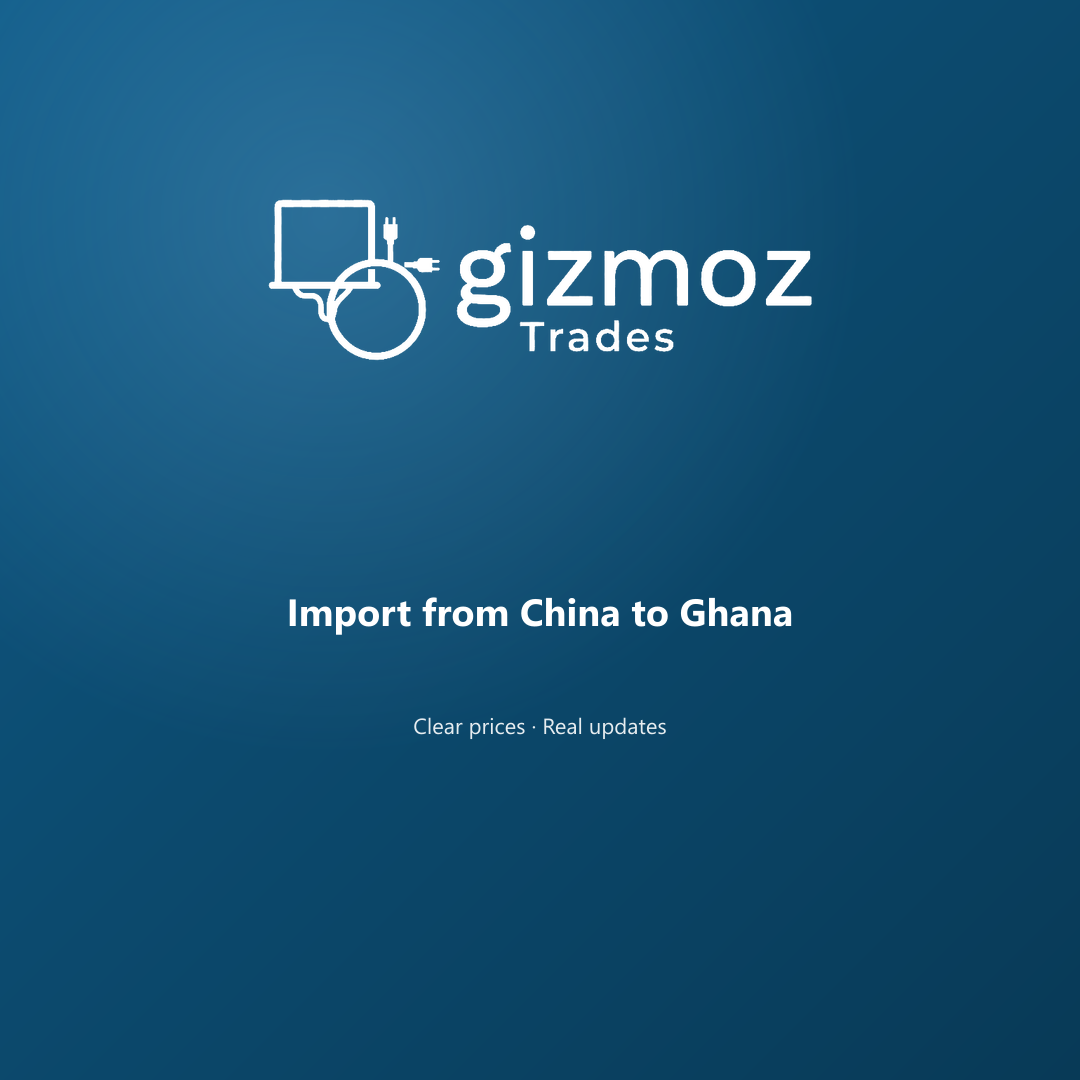
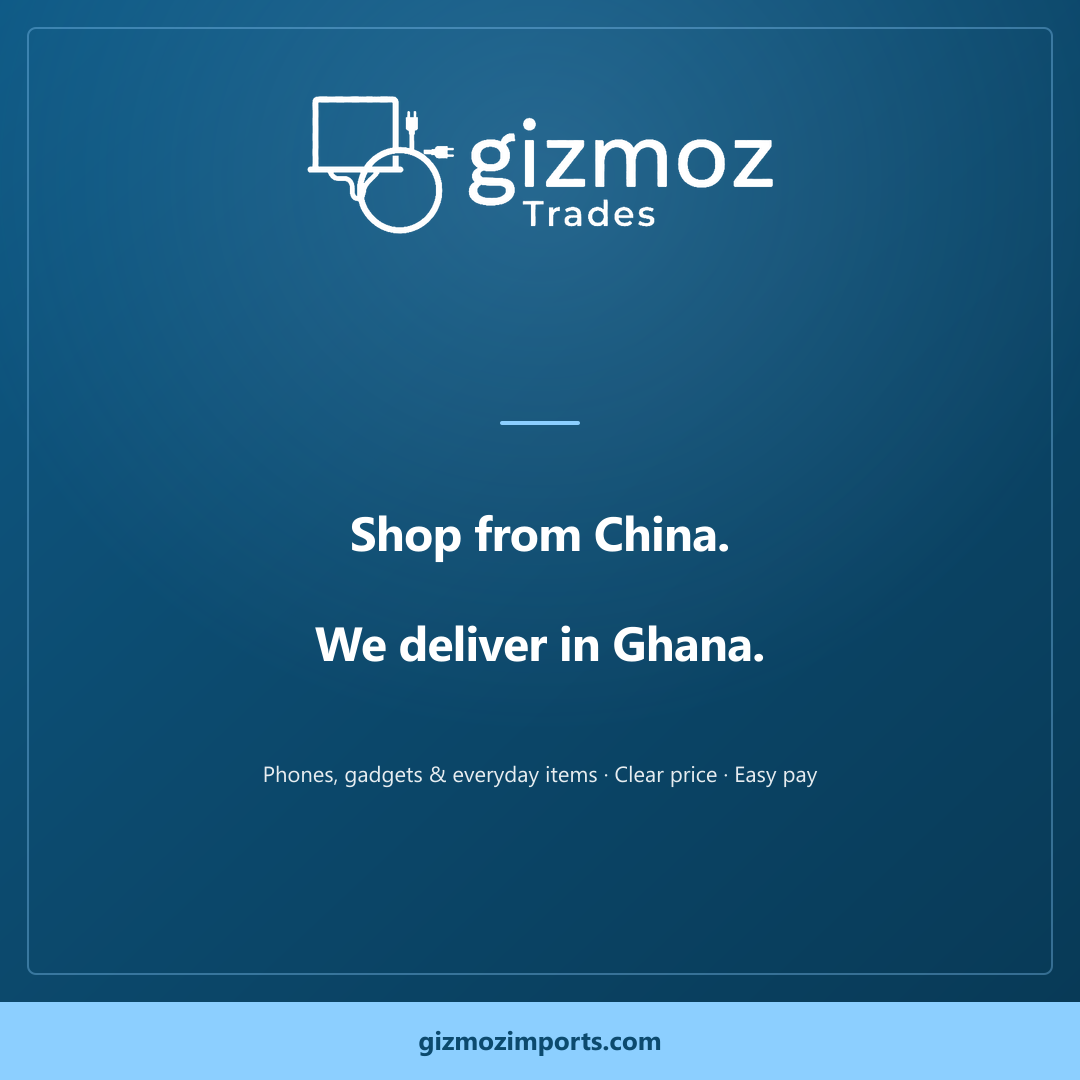
Redesign share flyer with plain-language brand copy

diff --git a/app/opengraph-image.tsx b/app/opengraph-image.tsx
@@ -9,6 +9,7 @@ export const alt = `${SEO.brandName}. ${SEO.tagline}`;
 export const size = { width: 1200, height: 630 };
 export const contentType = 'image/png';
 
+/** Flyer-style share card — logo on top, brand copy below. Not the site hero. */
 export default async function Image() {
   const logoSrc = `${SEO.siteUrl}${SITE_LOGO_DARK_BG_PATH}`;
 
@@ -20,44 +21,53 @@ export default async function Image() {
           height: '100%',
           display: 'flex',
           flexDirection: 'column',
-          alignItems: 'center',
-          justifyContent: 'center',
-          background: 'linear-gradient(135deg, #0E5A86 0%, #0C4A6E 42%, #083A57 100%)',
-          color: '#fff',
+          background: 'linear-gradient(135deg, #0E5A86 0%, #0C4A6E 45%, #083A57 100%)',
           fontFamily: 'system-ui, sans-serif',
-          position: 'relative',
-          padding: '48px 64px',
         }}
       >
         <div
           style={{
-            position: 'absolute',
-            top: -100,
-            left: -40,
-            width: 460,
-            height: 460,
-            borderRadius: 999,
-            background: 'rgba(140, 207, 255, 0.18)',
-          }}
-        />
-
-        <div
-          style={{
+            flex: 1,
             display: 'flex',
             flexDirection: 'column',
             alignItems: 'center',
-            justifyContent: 'center',
-            gap: 36,
+            justifyContent: 'flex-start',
+            padding: '48px 56px 32px',
             position: 'relative',
           }}
         >
+          {/* Inset frame */}
+          <div
+            style={{
+              position: 'absolute',
+              top: 28,
+              left: 28,
+              right: 28,
+              bottom: 28,
+              border: '2px solid rgba(140, 207, 255, 0.35)',
+              borderRadius: 8,
+            }}
+          />
+
           {/* eslint-disable-next-line @next/next/no-img-element */}
           <img
             src={logoSrc}
-            width={420}
-            height={151}
-            style={{ objectFit: 'contain' }}
+            width={400}
+            height={144}
+            style={{ objectFit: 'contain', marginTop: 12 }}
             alt=""
+          />
+
+          <div
+            style={{
+              display: 'flex',
+              width: 80,
+              height: 4,
+              background: '#8CCFFF',
+              borderRadius: 2,
+              marginTop: 28,
+              marginBottom: 28,
+            }}
           />
 
           <div
@@ -65,36 +75,63 @@ export default async function Image() {
               display: 'flex',
               flexDirection: 'column',
               alignItems: 'center',
-              gap: 18,
+              gap: 6,
               textAlign: 'center',
             }}
           >
             <div
               style={{
                 display: 'flex',
-                fontSize: 42,
+                fontSize: 48,
                 fontWeight: 700,
+                color: '#FFFFFF',
                 letterSpacing: '-0.02em',
-                lineHeight: 1.2,
-                textAlign: 'center',
-                maxWidth: 980,
+                lineHeight: 1.15,
               }}
             >
-              Import from China to Ghana without the stress
+              Shop from China.
             </div>
             <div
               style={{
                 display: 'flex',
-                fontSize: 24,
-                color: 'rgba(255,255,255,0.9)',
-                textAlign: 'center',
-                maxWidth: 920,
-                lineHeight: 1.35,
+                fontSize: 48,
+                fontWeight: 700,
+                color: '#FFFFFF',
+                letterSpacing: '-0.02em',
+                lineHeight: 1.15,
               }}
             >
-              Gadgets, electronics &amp; everyday goods · Clear prices · Real updates
+              We deliver in Ghana.
             </div>
           </div>
+
+          <div
+            style={{
+              display: 'flex',
+              marginTop: 22,
+              fontSize: 22,
+              color: 'rgba(255,255,255,0.9)',
+              textAlign: 'center',
+            }}
+          >
+            Phones, gadgets &amp; everyday items · Clear price · Easy pay
+          </div>
+        </div>
+
+        {/* Light Blue footer band */}
+        <div
+          style={{
+            display: 'flex',
+            alignItems: 'center',
+            justifyContent: 'center',
+            height: 78,
+            background: '#8CCFFF',
+            color: '#0C4A6E',
+            fontSize: 26,
+            fontWeight: 700,
+          }}
+        >
+          gizmozimports.com
         </div>
       </div>
     ),

diff --git a/lib/seo.ts b/lib/seo.ts
@@ -25,12 +25,12 @@ function resolveSiteUrl(raw: string | undefined): string {
 const SITE_URL = resolveSiteUrl(process.env.NEXT_PUBLIC_APP_URL);
 const SITE_NAME = (process.env.NEXT_PUBLIC_SITE_NAME || 'Gizmoz Trades').trim() || 'Gizmoz Trades';
 
-const TAGLINE = 'China goods for Ghana — clear price, real tracking';
+const TAGLINE = 'Shop from China. We deliver in Ghana.';
 const TAGLINE_LONG =
-  'Gizmoz Trades is the simple way to buy goods from China for Ghana. See the price, get a clear bill, pay by MoMo or bank, and track your order to Ghana. WhatsApp help when you need it, plus Buy RMB for China payments.';
+  'Gizmoz Trades helps you buy phones, gadgets, and everyday items from China and get them in Ghana. See the price first, pay by MoMo or bank, track your order, and chat on WhatsApp when you need help. You can also Buy RMB for China payments.';
 
 const DEFAULT_DESCRIPTION =
-  'Buy gadgets, phones, home items, and more from China for Ghana with Gizmoz Trades. Clear prices, easy pay, order tracking, and Buy RMB with Ghana Cedis.';
+  'Order phones, gadgets, and everyday items from China with Gizmoz Trades. See the price first, pay by MoMo or bank, and track your order until it arrives in Ghana.';
 
 export const SEO = {
   siteUrl: SITE_URL,
@@ -41,7 +41,7 @@ export const SEO = {
   tagline: TAGLINE,
   taglineLong: TAGLINE_LONG,
 
-  defaultTitle: `${SITE_NAME} | China to Ghana Imports`,
+  defaultTitle: `${SITE_NAME} | Shop from China, delivered in Ghana`,
   defaultDescription: DEFAULT_DESCRIPTION,
 
   keywords: [
@@ -61,13 +61,13 @@ export const SEO = {
     whatWeAre:
       'Gizmoz Trades is an online store that helps people in Ghana buy goods from China. You shop, get a clear bill, pay, and track the order to Ghana.',
     services: [
-      'Shop China goods for Ghana (phones, gadgets, home items, tools, and more)',
+      'Shop phones, gadgets, home items, tools, and more from China for delivery in Ghana',
       'Online checkout with a clear invoice and order tracking',
       'Buy RMB: pay Ghana Cedis and get RMB to pay China suppliers',
       'WhatsApp and phone help when you need it',
     ],
     whoFor:
-      'People and shops in Ghana who want China goods with a clear price and real updates.',
+      'People and shops in Ghana who want to buy from China with a clear price and real updates.',
     locations: 'Serves customers across Ghana. Goods move from China into Ghana for clearing, pickup, or delivery.',
     differentiators: [
       'Clear price before you pay',
@@ -77,10 +77,10 @@ export const SEO = {
     ],
   },
 
-  /** `/og/preview.png` — centered Soft Ocean card (WhatsApp structure). New path busts cache. */
-  defaultOgImagePath: `${SITE_URL}/og/preview.png`,
+  /** `/og/flyer.png` — Soft Ocean flyer (logo on top, copy below). New path busts share caches. */
+  defaultOgImagePath: `${SITE_URL}/og/flyer.png`,
   ogImages: {
-    default: '/og/preview.png',
+    default: '/og/flyer.png',
     twitter: '/og/twitter.png',
     square: '/og/square.png',
     buyRmb: '/og/buy-rmb.png',
@@ -111,23 +111,23 @@ export const SEO = {
   /** Per-page meta (override CMS; use with pageMetadata()). */
   pages: {
     home: {
-      title: 'China goods for Ghana',
+      title: 'Shop from China, delivered in Ghana',
       description: DEFAULT_DESCRIPTION,
     },
     shop: {
-      title: 'Shop clear China prices',
+      title: 'Shop with clear prices',
       description:
-        'Clear prices. Real China goods. Order online, pay a clear bill, and track it from China to Ghana with Gizmoz Trades.',
+        'Browse phones, gadgets, and everyday items from China. See the price, pay a clear bill, and track your order to Ghana with Gizmoz Trades.',
     },
     categories: {
       title: 'Shop by type',
       description:
-        'Pick a product group — phones, home items, tools, and more — then shop from China with Gizmoz Trades.',
+        'Pick a product group — phones, home items, tools, and more — then order from China with Gizmoz Trades.',
     },
     about: {
       title: 'About Gizmoz Trades',
       description:
-        'Gizmoz Trades helps Ghana buy from China. Clear prices, easy pay, real tracking, and people you can talk to.',
+        'Gizmoz Trades helps people in Ghana buy from China. Clear prices, easy pay, real tracking, and people you can talk to.',
     },
     contact: {
       title: 'Contact us',

diff --git a/app/(store)/how-it-works/page.tsx b/app/(store)/how-it-works/page.tsx
@@ -6,7 +6,7 @@ import { leadConfig } from '@/lib/leadConfig';
 export const metadata: Metadata = {
   title: 'How It Works | Shop, Pay, Track | Gizmoz Trades',
   description:
-    'Buy China goods for Ghana in four easy steps: shop, get your bill, pay, and track it to Ghana.',
+    'Buy from China in four easy steps: shop, get your bill, pay, and track it to Ghana.',
   keywords: ['buy from China Ghana', 'import goods from China to Ghana', 'China to Ghana shop'],
 };
 

diff --git a/lib/store-config.ts b/lib/store-config.ts
@@ -90,7 +90,7 @@ export const STORE_SEO_KEYWORDS = [
   'Gizmoz Trades',
   'Gizmoz Trades',
   'buy from China Ghana',
-  'China goods for Ghana',
+  'shop from China Ghana',
   'import from China to Ghana',
   'buy gadgets from China Ghana',
   'China to Ghana shipping',
